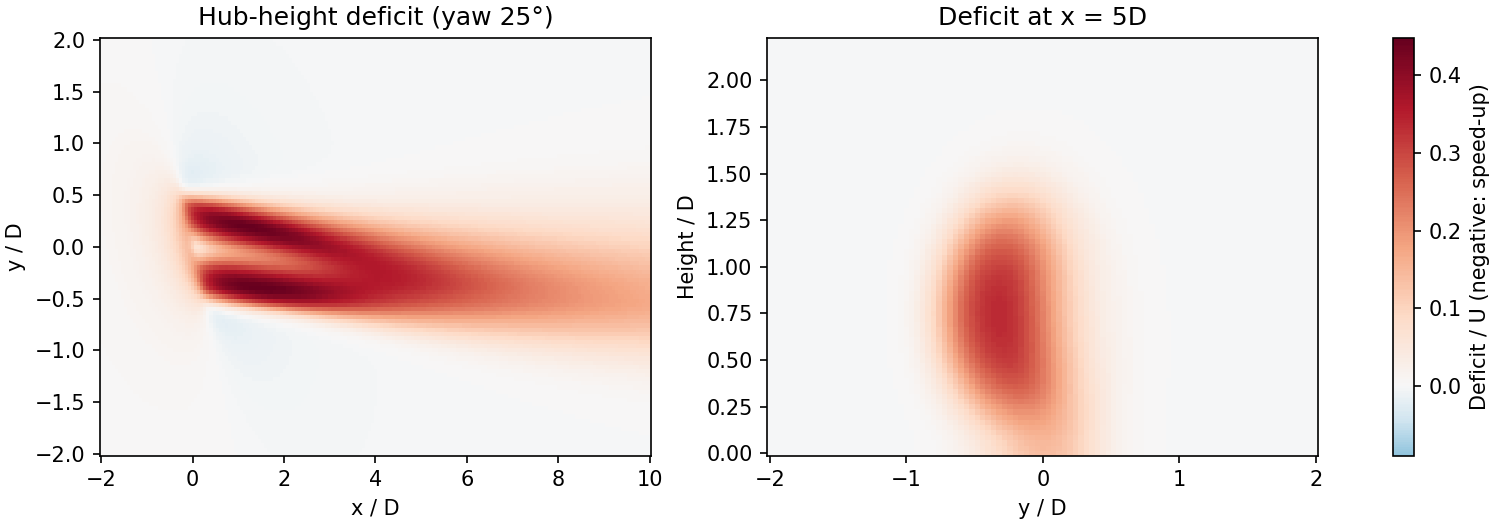
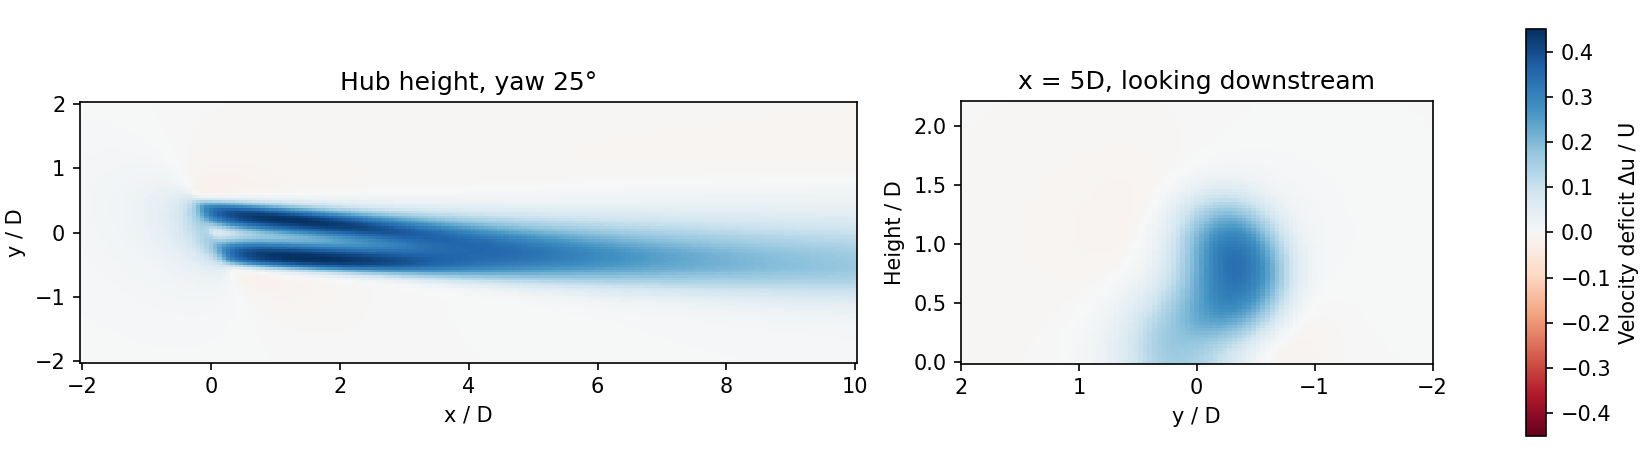
README: overview figure and plotting example (deficit blue)

diff --git a/examples/plot_wake.py b/examples/plot_wake.py
@@ -10,11 +10,10 @@ import time
 import matplotlib
 matplotlib.use('Agg')
 import matplotlib.pyplot as plt
-from matplotlib.colors import ListedColormap
 import numpy as np
 import scipy
 import wakemarch
-from wakemarch import Numerics, WakeModel
+from wakemarch import WakeModel
 
 
 def main():
@@ -22,28 +21,26 @@ def main():
     p.add_argument('--output', type=Path, required=True)
     args = p.parse_args()
     args.output.mkdir(parents=True, exist_ok=False)
-    model = WakeModel(D=126, H=90, U=8, CT=0.8, yaw_deg=25, TI=0.06,
-                      numerics=Numerics(h_D=1/20))
+    model = WakeModel(D=126, H=90, U=8, CT=0.8, yaw_deg=25, TI=0.06, shear_alpha=0.14)
     start = time.perf_counter()
     result = model.solve(10, progress=False)
-    x, y, z = np.linspace(-2*model.D, 10*model.D, 181), np.linspace(-2*model.D, 2*model.D, 101), np.linspace(0, model.H+1.5*model.D, 81)
+    x, y, z = np.linspace(-2*model.D, 10*model.D, 181), np.linspace(-2*model.D, 2*model.D, 101), np.linspace(0, 2.2*model.D, 81)
     xx, yy = np.meshgrid(x, y)
     yp, zp = np.meshgrid(y, z)
     hub = result.sample_deficit(xx, yy, model.H)/model.U
     plane = result.sample_deficit(5*model.D, yp, zp)/model.U
     assert np.isfinite(hub).all() and np.isfinite(plane).all()
     elapsed = time.perf_counter()-start
-    fig, axes = plt.subplots(1, 2, figsize=(10, 3.5), constrained_layout=True)
-    # diverging scale: deficit red, speed-up beside the near wake and induction zone upstream visible
-    vmax = max(float(hub.max()), float(plane.max()))
-    rdbu = plt.get_cmap('RdBu_r')     # white at zero on the range [-0.2 vmax, vmax]
-    cmap = ListedColormap(rdbu(np.r_[np.linspace(0.3, 0.5, 40, endpoint=False), np.linspace(0.5, 1.0, 200)]))
-    norm = dict(vmin=-0.2*vmax, vmax=vmax, cmap=cmap)
+    fig, axes = plt.subplots(1, 2, figsize=(11, 3.1), constrained_layout=True,
+                             gridspec_kw=dict(width_ratios=[3, 1.82]))
+    # diverging scale: deficit (slower flow) blue, speed-up beside the near wake and in the induction zone red
+    norm = dict(cmap='RdBu', vmin=-0.45, vmax=0.45)
     axes[0].pcolormesh(x/model.D, y/model.D, hub, **norm, shading='auto')
-    axes[0].set(xlabel='x / D', ylabel='y / D', title='Hub-height deficit (yaw 25°)')
+    axes[0].set(xlabel='x / D', ylabel='y / D', title='Hub height, yaw 25°', aspect='equal')
     mesh = axes[1].pcolormesh(y/model.D, z/model.D, plane, **norm, shading='auto')
-    axes[1].set(xlabel='y / D', ylabel='Height / D', title='Deficit at x = 5D')
-    fig.colorbar(mesh, ax=axes, label='Deficit / U (negative: speed-up)')
+    axes[1].set(xlabel='y / D', ylabel='Height / D', title='x = 5D, looking downstream',
+                aspect='equal', xlim=(2, -2))
+    fig.colorbar(mesh, ax=axes, label='Velocity deficit Δu / U', shrink=0.9)
     fig.savefig(args.output/'wake.png', dpi=150)
     plt.close(fig)
     record = dict(version=wakemarch.__version__, python=sys.version, platform=platform.platform(),

diff --git a/README.md b/README.md
@@ -13,7 +13,13 @@ The core depends only on NumPy (≥ 1.24) and SciPy (≥ 1.10) and needs
 Python 3.11 or later. The upper bounds `<3`/`<2` are compatibility boundaries,
 not evidence of tests on every release.
 
-![WakeMarch hub-height and cross-plane wake](https://raw.githubusercontent.com/haibuihoang/wakemarch/main/docs/images/wake.png)
+![WakeMarch: the curled wake of a yawed turbine, marched downstream on planes parallel to the rotor](https://raw.githubusercontent.com/haibuihoang/wakemarch/main/docs/images/overview.png)
+
+*The model in one picture: behind a rotor yawed by γ = 25° (D = 126 m, hub height 90 m, C_T = 0.8,
+turbulence intensity 6%, sheared inflow U(z)), WakeMarch marches the velocity deficit (blue) and the
+streamwise vorticity downstream on planes x_s parallel to the rotor. The red and blue lines are the
+centres of the counter-rotating vortex pair (positive and negative vorticity). The pair moves with its own flow and deforms the wake into a curled (kidney)
+shape while deflecting it; the shadow on the ground is the hub-height deficit and its centre line.*
 
 Start with the [user guide](https://github.com/haibuihoang/wakemarch/blob/main/docs/USER_GUIDE.md), then the
 [API notebook](https://github.com/haibuihoang/wakemarch/blob/main/examples/wakemarch_api_test.ipynb) and
@@ -24,7 +30,7 @@ or power/CT tables, including rotor-wide velocity samples.
 An optional [PIV comparison](https://github.com/haibuihoang/wakemarch/blob/main/examples/wakemarch_piv_validation.ipynb) uses a
 separately downloaded public dataset and discloses inherited calibration.
 Read [scientific scope](https://github.com/haibuihoang/wakemarch/blob/main/docs/SCIENCE.md) and [citation](https://github.com/haibuihoang/wakemarch/blob/main/CITATION.md) before
-using results in research. The figure is generated by `examples/plot_wake.py`.
+using results in research.
 
 ## Install and run
 
@@ -76,6 +82,41 @@ the reconstruction buffer. The display closes on success, errors and interrupts;
 callback exceptions propagate. Progress observes the solve without changing its
 numerical operations. It measures downstream advancement, not a guaranteed time
 remaining estimate.
+
+## Plot a wake
+
+The figure below comes from this script (about 15 s; needs `matplotlib`, e.g. from
+`pip install 'wakemarch[notebooks]'`). `examples/plot_wake.py` draws the same figure and also
+writes a reproducibility record.
+
+```py
+import matplotlib.pyplot as plt
+import numpy as np
+from wakemarch import WakeModel
+
+D, H = 126, 90
+model = WakeModel(D=D, H=H, U=8, CT=0.8, yaw_deg=25, TI=0.06, shear_alpha=0.14)
+result = model.solve(max_dist_D=10)
+
+x, y, z = np.linspace(-2, 10, 181) * D, np.linspace(-2, 2, 101) * D, np.linspace(0, 2.2, 81) * D
+hub = result.sample_deficit(*np.meshgrid(x, y), H) / model.U          # hub-height plane
+yz = result.sample_deficit(5 * D, *np.meshgrid(y, z)) / model.U       # cross-section at x = 5D
+
+fig, (a, b) = plt.subplots(1, 2, figsize=(11, 3.1), width_ratios=[3, 1.82], constrained_layout=True)
+style = dict(cmap="RdBu", vmin=-0.45, vmax=0.45, shading="auto")      # deficit blue, speed-up red
+a.pcolormesh(x / D, y / D, hub, **style)
+a.set(xlabel="x / D", ylabel="y / D", title="Hub height, yaw 25°", aspect="equal")
+m = b.pcolormesh(y / D, z / D, yz, **style)
+b.set(xlabel="y / D", ylabel="Height / D", title="x = 5D, looking downstream", aspect="equal", xlim=(2, -2))
+fig.colorbar(m, ax=(a, b), label="Velocity deficit Δu / U", shrink=0.9)
+fig.savefig("wake.png", dpi=150)
+```
+
+![Hub-height plane and cross-section at 5D of the example wake](https://raw.githubusercontent.com/haibuihoang/wakemarch/main/docs/images/wake.png)
+
+Positive yaw deflects the wake towards negative `y`; the cross-section is seen from upstream, so
+negative `y` is on the right. Red marks the speed-up beside the near wake; the pale blue just upstream
+of the rotor is its induction zone.
 
 ## Define turbine performance once
 

diff --git a/CHANGELOG.md b/CHANGELOG.md
@@ -12,6 +12,9 @@ Fix found in the critical review of the accompanying paper (R1).
   Gamma0. Normalising the sheet to exactly Gamma0 was tested and rejected (wakes over-deflected).
 - New module constant `FIXED_POINT_PASSES` (3, unchanged) of the continuity coupling, for convergence checks.
 - Zenodo DOI of 0.3.0 (10.5281/zenodo.24057965) in CITATION.cff and release metadata.
+- README: an overview figure of the model (curled wake marched on planes parallel to the yawed rotor) and
+  the plotting script of the example figure, now with the deficit in blue and the speed-up in red
+  (`examples/plot_wake.py` draws the same figure).
 
 ## 0.3.0 — 2026-11-08
 
